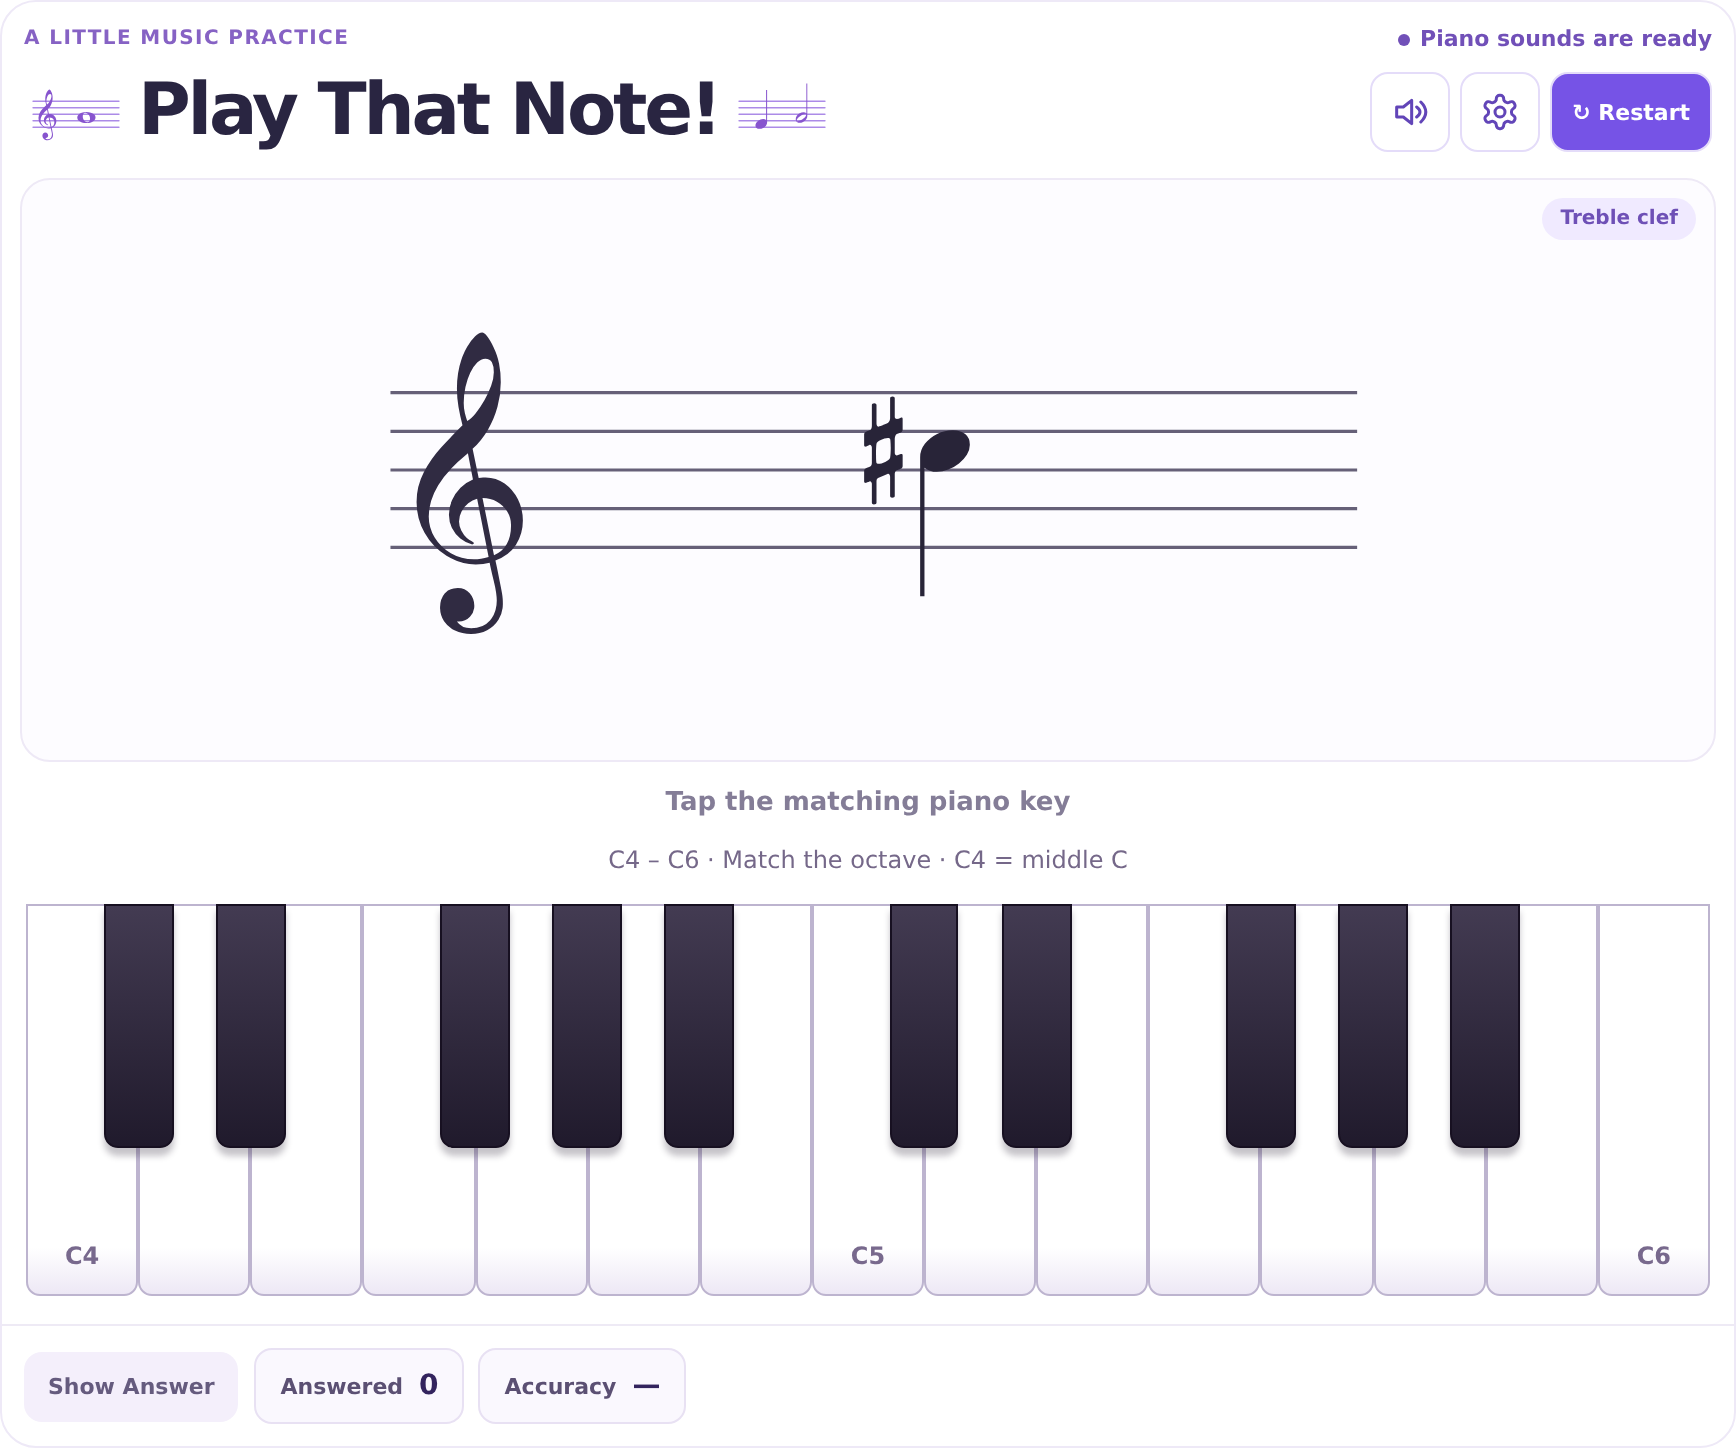
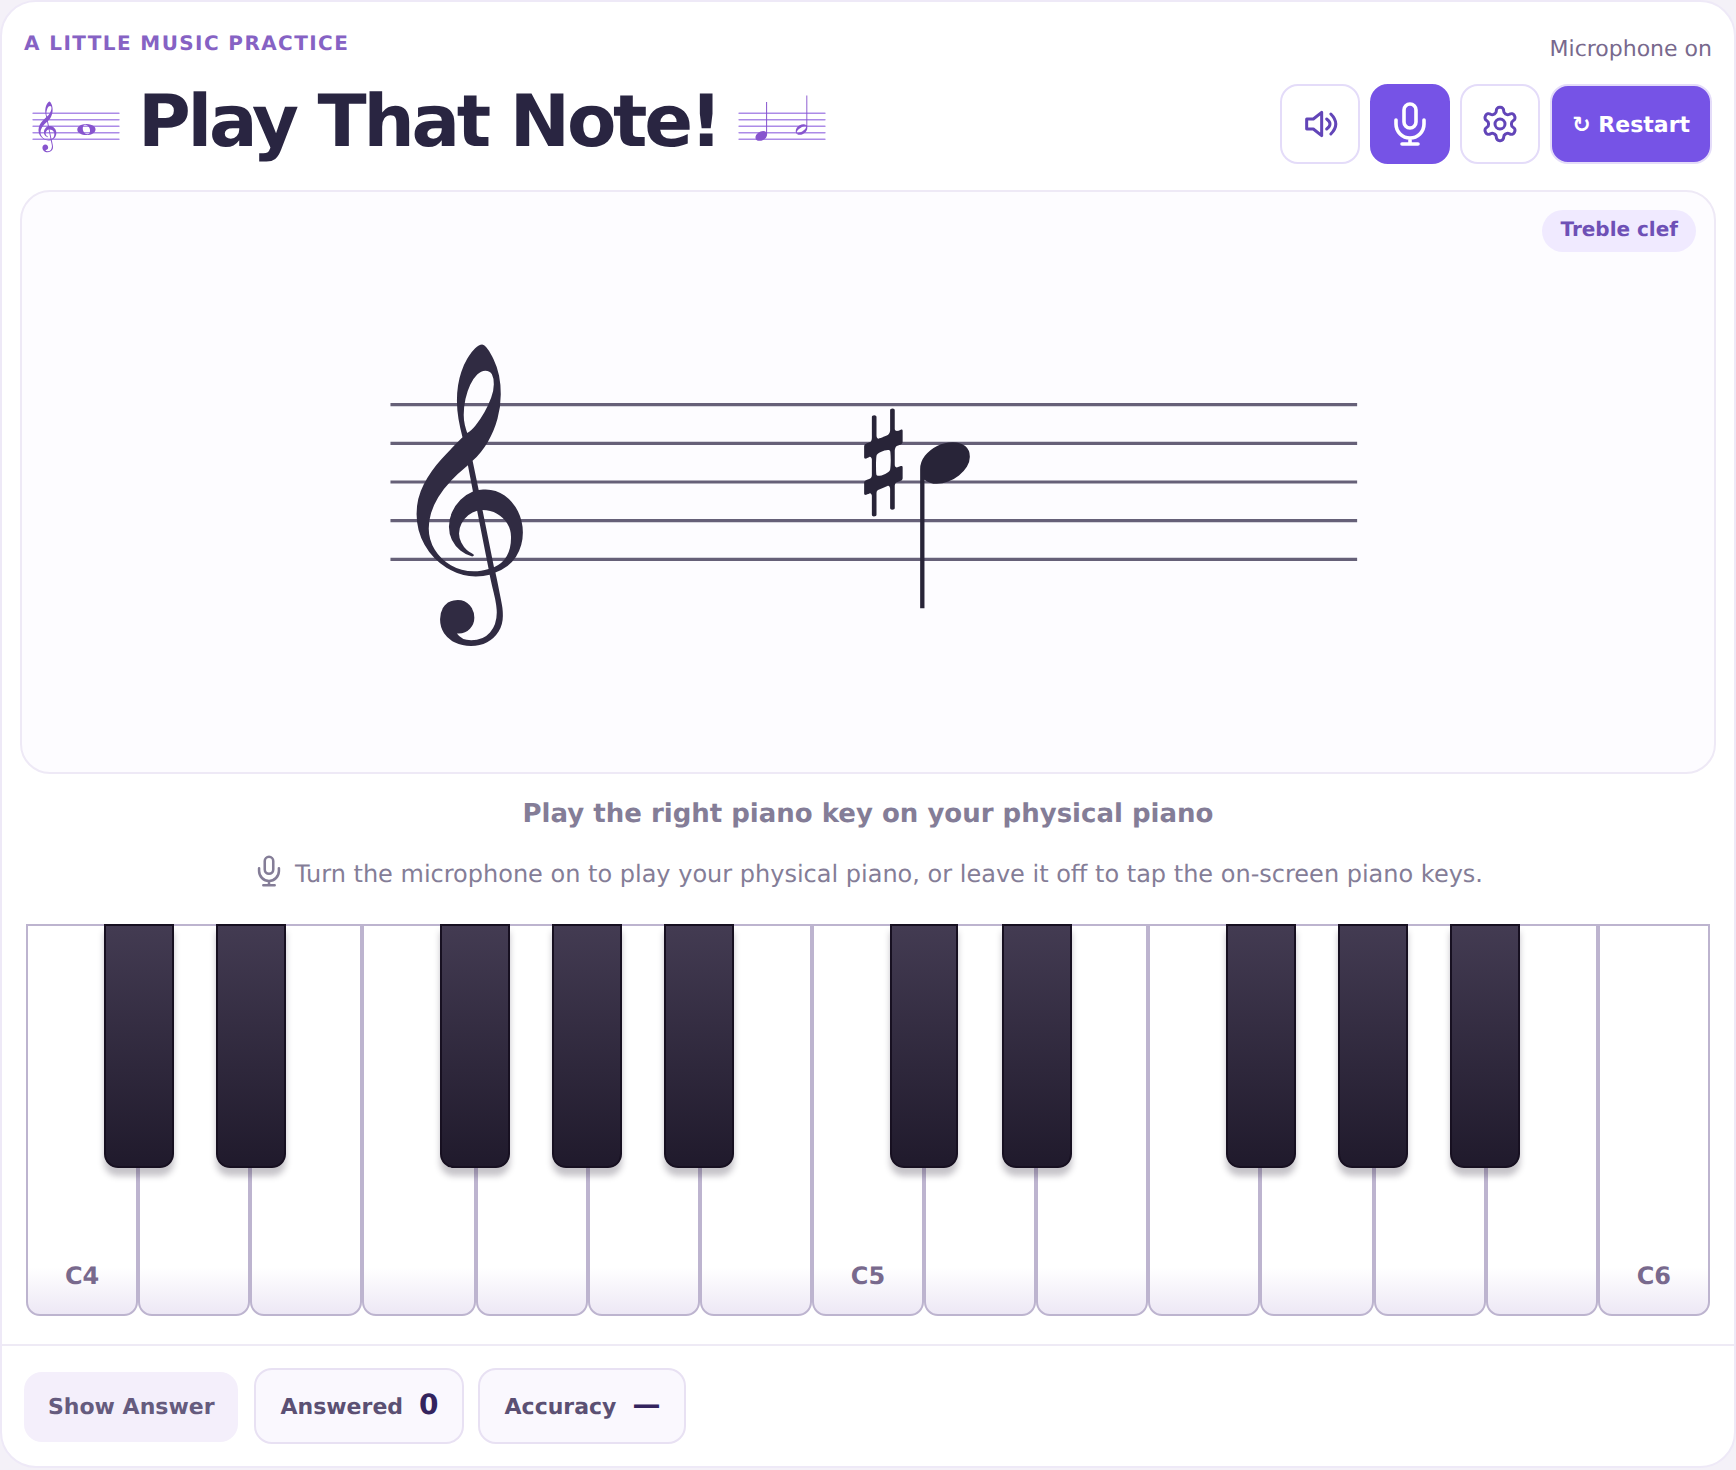
Refresh Play That Note preview for microphone input

diff --git a/index.html b/index.html
@@ -74,7 +74,7 @@
         </div>
       </article>
       <article class="card">
-        <a class="thumb" href="games/play-that-note/index.html"><div class="thumbFrame"><img src="assets/play-that-note-preview.png?v=4ec072e694e9" alt="Play That Note piano-keyboard game preview" /></div></a>
+        <a class="thumb" href="games/play-that-note/index.html"><div class="thumbFrame"><img src="assets/play-that-note-preview.png?v=ca9444947090" alt="Play That Note piano-keyboard game preview" /></div></a>
         <div class="body">
           <div class="name">🎹 Play That Note!</div>
           <div class="desc">Read the note on the staff, then tap the matching piano key. Practice sharps, flats, and finding the right octave!</div>
